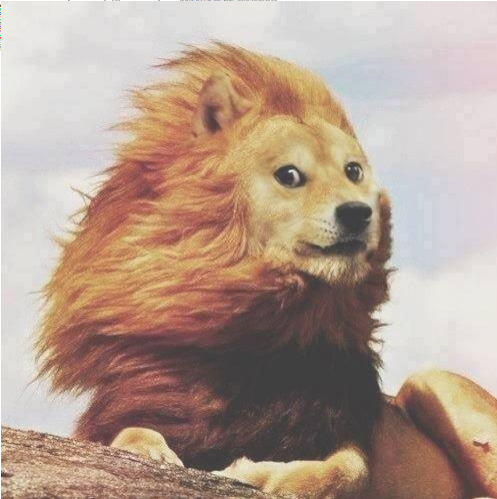
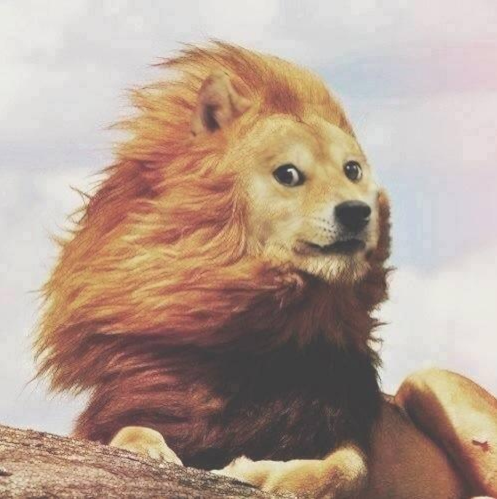
pool image output is now identical to expected output

diff --git a/pool.c b/pool.c
@@ -23,20 +23,20 @@ void process(char *input_filename, char *output_filename, int num_threads)
 
   // process image in parallel, by giving each byte of RGBA data to different threads
   #pragma omp parallel for num_threads(num_threads)
-  // repeat for RGBA byte separately
   for (int offset = 0; offset < 4; offset++)
   {
-    for (int i = 2; i < height; i+=2)
+    for (int i = 2; i < height + 2; i += 2)
     {
-      for (int j = 2; j < width; j+=2)
+      for (int j = 2; j < width + 2; j += 2)
       {
         int maxVal = 0;
+        
         // apply 2x2 max-pooling
         //#pragma omp parallel for reduction(max : maxVal)
-        for (int ii = i-2; ii < i; ii++)
+        for (int ii = i - 2; ii < i; ii++)
         {
           //#pragma omp parallel for reduction(max : maxVal)
-          for (int jj = j-2; jj < j; jj++)
+          for (int jj = j - 2; jj < j; jj++)
           {
             int idx = 4 * (width * ii + jj) + offset;
             if (image[idx] > maxVal)
@@ -45,7 +45,7 @@ void process(char *input_filename, char *output_filename, int num_threads)
             }
           }
         }
-        new_image[4 * (output_width * i/2 + j/2) + offset] = maxVal;
+        new_image[4 * (output_width * (i / 2 - 1) + (j / 2 - 1)) + offset] = maxVal;
       }
     }
   }
